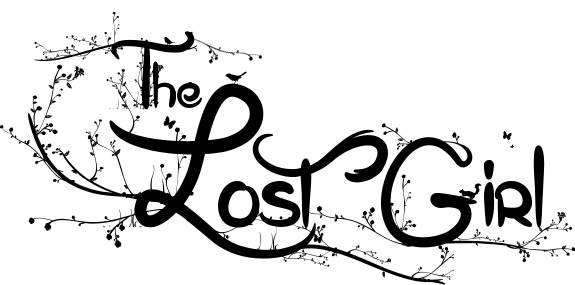
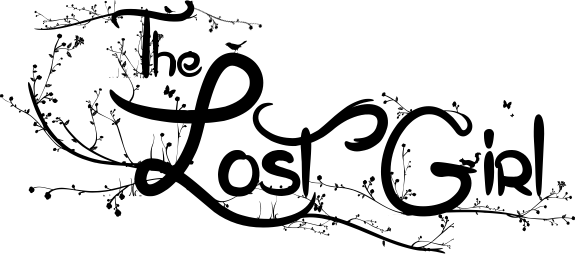
Fixes gui bugs.

Changed region(s): [[0.0, 0.0, 1.0, 1.0], [0.8574, 0.3858, 0.887, 0.4409], [0.8574, 0.4685, 0.887, 0.4961]]

diff --git a/src/states/MainMenuState.cpp b/src/states/MainMenuState.cpp
@@ -10,18 +10,16 @@
 MainMenuState::MainMenuState()
 {
 	Context::eventManager->subscribe<ParametersChange>(*this);
-	using tgui::bindWidth;
-	using tgui::bindHeight;
 	tgui::Gui& gui(*Context::gui);
 
 	m_background = std::make_shared<tgui::VerticalLayout>();
-	m_background->setPosition(bindWidth(gui) * 0.25f, bindHeight(gui) * 0.f);
-	m_background->setSize(bindWidth(gui) * 0.5f, bindHeight(gui));
+	m_background->setPosition(tgui::bindWidth(gui) * 0.25f, tgui::bindHeight(gui) * 0.f);
+	m_background->setSize(tgui::bindWidth(gui) * 0.5f, tgui::bindHeight(gui));
 	m_background->setBackgroundColor(sf::Color(255, 255, 255, 100));
 	gui.add(m_background);
 
 	m_logo = std::make_shared<tgui::Picture>(Context::parameters->imagePath + "title.png");
-	m_logo->setPosition((bindWidth(gui) - bindWidth(m_logo))/2, bindHeight(gui) * 0.f);
+	m_logo->setPosition((tgui::bindWidth(gui) - tgui::bindWidth(m_logo)) / 2.f, tgui::bindHeight(gui) * 0.02f);
 	gui.add(m_logo);
 
 	m_newButton = Context::parameters->guiTheme->load("Button");
@@ -36,7 +34,7 @@ MainMenuState::MainMenuState()
 	m_exitButton->connect("pressed", &MainMenuState::exitGame, this);
 	m_background->add(m_exitButton);
 
-    m_background->insertSpace(0, 8.f/3.f);//Add a space before widgets
+    m_background->insertSpace(0, 4.f);//Add a space before widgets
     m_background->addSpace();//And another space after
 	resetTexts();
 }

diff --git a/src/states/IntroState.cpp b/src/states/IntroState.cpp
@@ -10,25 +10,24 @@
 IntroState::IntroState()
 {
 	Context::eventManager->subscribe<ParametersChange>(*this);
-	using tgui::bindWidth;
-	using tgui::bindHeight;
 	tgui::Gui& gui(*Context::gui);
+	const auto guiWidth = tgui::bindWidth(gui);
 
 	m_background = std::make_shared<tgui::Panel>();
-	m_background->setPosition(bindWidth(gui) * 0.25f, bindHeight(gui) * 0.f);
-	m_background->setSize(bindWidth(gui) * 0.5f, bindHeight(gui));
+	m_background->setPosition(guiWidth * 0.25f, 0.f);
+	m_background->setSize(guiWidth * 0.5f, tgui::bindHeight(gui));
 	m_background->setBackgroundColor(sf::Color(255, 255, 255, 100));
 	gui.add(m_background);
 
 	m_logo = std::make_shared<tgui::Picture>(Context::parameters->imagePath + "title.png");
-	m_logo->setPosition((bindWidth(gui) - bindWidth(m_logo))/2, bindHeight(gui) * 0.f);
+	m_logo->setPosition((tgui::bindWidth(gui) - tgui::bindWidth(m_logo)) / 2.f, tgui::bindHeight(gui) * 0.02f);
 	gui.add(m_logo);
 
 	m_sentence = Context::parameters->guiTheme->load("Label");
-	m_sentence->setTextSize(15);
-	m_sentence->setPosition((bindWidth(gui) - bindWidth(m_sentence))/2, bindHeight(gui) * 0.5);
-	gui.add(m_sentence);
+	m_sentence->setTextSize(20);
 	resetTexts();
+	m_sentence->setPosition(tgui::bindWidth(gui)/2.f - tgui::bindWidth(m_sentence)/2.f, tgui::bindHeight(gui) * 0.6f);
+	gui.add(m_sentence);
 }
 
 IntroState::~IntroState()

diff --git a/src/states/LoadingState.cpp b/src/states/LoadingState.cpp
@@ -50,14 +50,12 @@ LoadingState::LoadingState()
 
 		m_sentenceLabel = Context::parameters->guiTheme->load("Label");
 		m_sentenceLabel->setText(m_sentence);
-		m_sentenceLabel->setTextSize(10);
-		//Center the label
-		m_sentenceLabel->setPosition((bindWidth(gui) - bindWidth(m_sentenceLabel))/2, bindHeight(gui) * 0.5f);
+		m_sentenceLabel->setTextSize(15);
 		gui.add(m_sentenceLabel);
 
 		m_hintLabel = Context::parameters->guiTheme->load("Label");
 		m_hintLabel->setText(Context::langManager->tr(line));
-		m_hintLabel->setTextSize(15);
+		m_hintLabel->setTextSize(20);
 		//Center the label
 		m_hintLabel->setPosition((bindWidth(gui) - bindWidth(m_hintLabel))/2.f, bindHeight(gui) * 0.38f);
 		gui.add(m_hintLabel);
@@ -97,6 +95,8 @@ void LoadingState::receive(const LoadingStateChange &loadingStateChange)
 void LoadingState::resetTexts()
 {
 	m_sentenceLabel->setText(Context::langManager->tr(m_sentence) + L"...");
+	//Center the label
+	m_sentenceLabel->setPosition((tgui::bindWidth(*Context::gui) - tgui::bindWidth(m_sentenceLabel))/2, tgui::bindHeight(*Context::gui) * 0.5f);
 }
 
 

diff --git a/src/states/PauseState.cpp b/src/states/PauseState.cpp
@@ -30,8 +30,7 @@ PauseState::PauseState()
 	m_background->add(titlePanel);
 	m_pauseLabel = Context::parameters->guiTheme->load("Label");
 	titlePanel->add(m_pauseLabel);
-	m_pauseLabel->setTextSize(40);
-	m_pauseLabel->setPosition((bindWidth(titlePanel)-bindWidth(m_pauseLabel))/2, 0.f);
+	m_pauseLabel->setTextSize(50);
 
 	m_background->addSpace();
 
@@ -52,6 +51,7 @@ PauseState::PauseState()
 
 	m_background->addSpace();
 	resetTexts();
+	m_pauseLabel->setPosition((bindWidth(titlePanel)-bindWidth(m_pauseLabel))/2, 0.f);
 }
 
 PauseState::~PauseState()

diff --git a/src/DebugDraw.cpp b/src/DebugDraw.cpp
@@ -43,7 +43,7 @@ void DebugDraw::initWidgets()
 	gui.add(m_FPSLabel);
 	m_console->setPosition(tgui::bindWidth(gui) * 0.5f, tgui::bindHeight(gui) * 0.7f);
 	m_console->setSize(tgui::bindWidth(gui) * 0.5f - 10.f, tgui::bindHeight(gui) * 0.3f - 10.f);
-	m_console->setTextSize(50);
+	m_console->setTextSize(10);
 	gui.add(m_console);
 }
 
